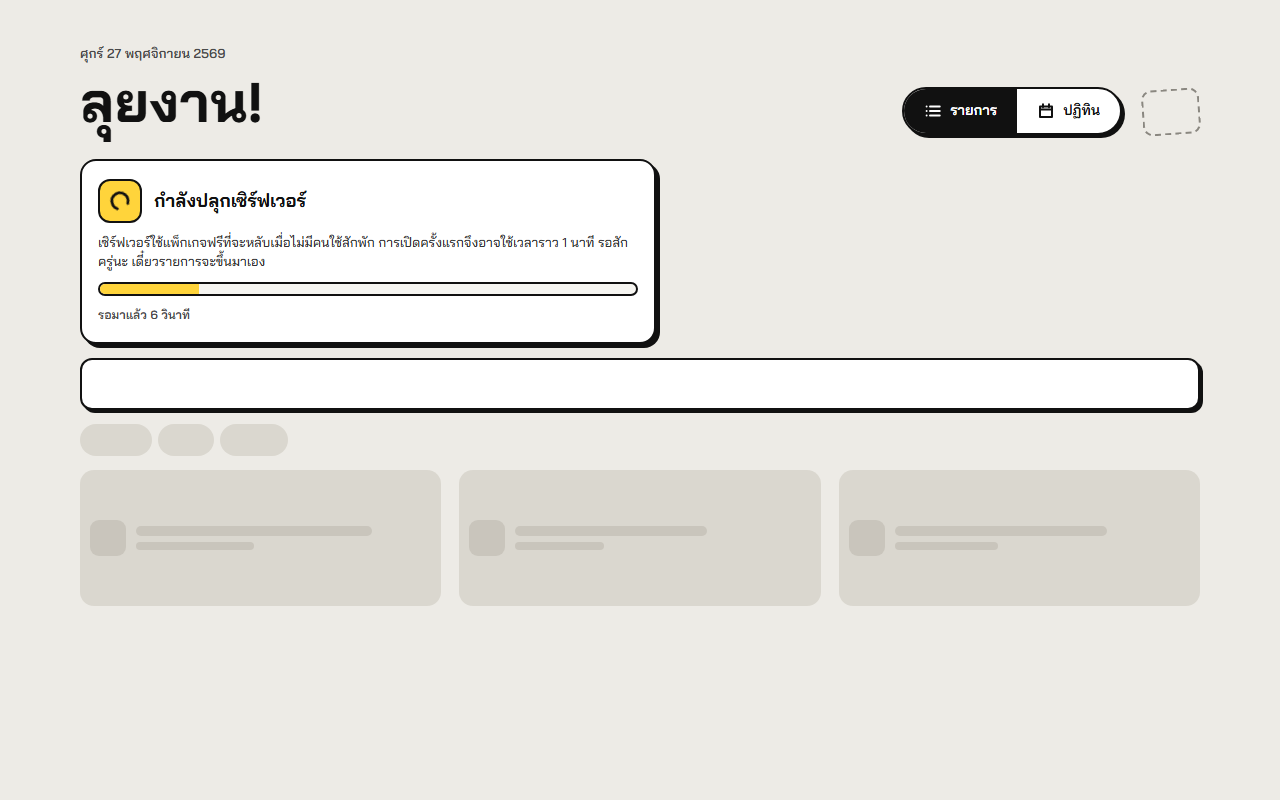
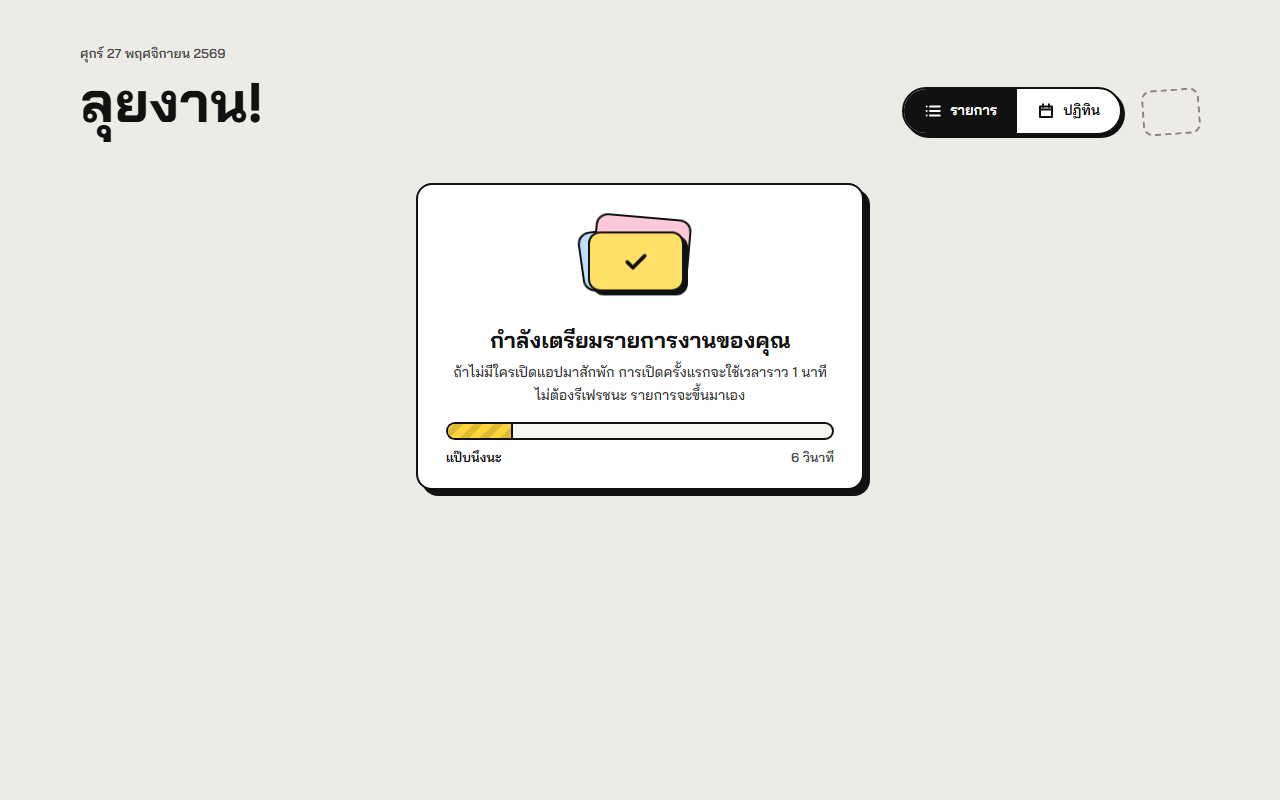
Reword the slow-load card in plain language and redesign it to match the Bold Cards style

Changed region(s): [[0.0625, 0.1875, 0.9375, 0.7188], [0.0625, 0.625, 0.3125, 0.7188]]

diff --git a/src/components/WakeCard.vue b/src/components/WakeCard.vue
@@ -1,0 +1,79 @@
+<script setup lang="ts">
+import { computed } from 'vue'
+import { useTodos } from '../composables/useTodos'
+import Icon from './Icon.vue'
+
+/*
+ * Shown instead of the skeleton when the first load is slow: the API host sleeps
+ * when idle and takes about a minute to wake. Plain words for people, no server talk.
+ */
+const { waitedSec } = useTodos()
+/** Eases towards 95% over about a minute, so the bar never claims to be done early. */
+const progress = computed(() => Math.round(95 * (1 - Math.exp(-waitedSec.value / 25))))
+const phrase = computed(() =>
+  waitedSec.value < 20 ? 'แป๊บนึงนะ' : waitedSec.value < 45 ? 'กำลังมา ใกล้แล้ว' : 'อีกนิดเดียวจริงๆ',
+)
+</script>
+
+<template>
+  <section
+    class="mx-auto mt-2 box-border flex w-full max-w-md flex-col items-center gap-4 rounded-2xl border-2 bg-white px-5 pt-7 pb-5 text-center shadow-brutal-lg sm:mt-6 sm:px-7"
+  >
+    <div aria-hidden="true" class="relative h-24 w-32">
+      <div class="absolute top-3.5 left-1 h-15 w-24 -rotate-8 rounded-xl border-2 bg-low motion-safe:animate-bob"></div>
+      <div
+        class="absolute top-1.5 left-4.5 h-15 w-24 rotate-5 rounded-xl border-2 bg-high motion-safe:animate-bob"
+        style="animation-delay: 0.2s"
+      ></div>
+      <div
+        class="absolute top-6 left-3 box-border flex h-15 w-24 items-center justify-center rounded-xl border-2 bg-normal shadow-brutal motion-safe:animate-bob"
+        style="animation-delay: 0.4s"
+      >
+        <Icon name="check" :size="30" :stroke="3" />
+      </div>
+    </div>
+
+    <div class="flex flex-col gap-1.5">
+      <h2 class="m-0 text-[20px] leading-snug font-bold sm:text-[22px]">กำลังเตรียมรายการงานของคุณ</h2>
+      <p class="m-0 text-[14px] leading-relaxed font-medium text-[#333]">
+        ถ้าไม่มีใครเปิดแอปมาสักพัก การเปิดครั้งแรกจะใช้เวลาราว 1 นาที ไม่ต้องรีเฟรชนะ รายการจะขึ้นมาเอง
+      </p>
+    </div>
+
+    <div class="flex w-full flex-col gap-2">
+      <div
+        class="h-4.5 w-full overflow-hidden rounded-full border-2 bg-off"
+        role="progressbar"
+        aria-label="ความคืบหน้าการโหลดรายการ"
+        :aria-valuenow="progress"
+        aria-valuemin="0"
+        aria-valuemax="100"
+      >
+        <div
+          class="stripes h-full border-r-2 bg-accent motion-safe:animate-stripes motion-safe:transition-[width] motion-safe:duration-1000"
+          :class="progress === 0 ? 'border-r-0' : ''"
+          :style="{ width: progress + '%' }"
+        ></div>
+      </div>
+      <div class="flex items-center justify-between text-[13px] font-semibold">
+        <span>{{ phrase }}</span>
+        <span class="text-muted" aria-hidden="true">{{ waitedSec }} วินาที</span>
+      </div>
+    </div>
+  </section>
+</template>
+
+<style scoped>
+.stripes {
+  background-image: linear-gradient(
+    -45deg,
+    rgb(0 0 0 / 0.13) 25%,
+    transparent 25%,
+    transparent 50%,
+    rgb(0 0 0 / 0.13) 50%,
+    rgb(0 0 0 / 0.13) 75%,
+    transparent 75%
+  );
+  background-size: 20px 20px;
+}
+</style>

diff --git a/src/components/ListSkeleton.vue b/src/components/ListSkeleton.vue
@@ -1,40 +1,15 @@
 <script setup lang="ts">
-import { computed } from 'vue'
 import { useTodos } from '../composables/useTodos'
-import Icon from './Icon.vue'
+import WakeCard from './WakeCard.vue'
 
 const { waitedSec } = useTodos()
-/** Eases towards 95% over about a minute, so the bar never claims to be done early. */
-const progress = computed(() => Math.round(95 * (1 - Math.exp(-waitedSec.value / 25))))
 </script>
 
 <template>
-  <div class="flex flex-col gap-3.5" aria-busy="true" role="status" aria-live="polite">
-    <section
-      v-if="waitedSec > 0"
-      class="box-border flex flex-col gap-2.5 rounded-2xl border-2 bg-white px-4 py-4.5 shadow-brutal sm:max-w-xl"
-    >
-      <div class="flex items-center gap-3">
-        <div class="flex size-11 shrink-0 items-center justify-center rounded-xl border-2 bg-accent">
-          <Icon name="spinner" :size="22" :stroke="3" />
-        </div>
-        <h2 class="m-0 text-[18px] leading-normal font-bold">กำลังปลุกเซิร์ฟเวอร์</h2>
-      </div>
-      <p class="m-0 text-[13px] leading-normal font-medium text-[#333]">
-        เซิร์ฟเวอร์ใช้แพ็กเกจฟรีที่จะหลับเมื่อไม่มีคนใช้สักพัก การเปิดครั้งแรกจึงอาจใช้เวลาราว 1 นาที รอสักครู่นะ เดี๋ยวรายการจะขึ้นมาเอง
-      </p>
-      <div
-        class="h-3.5 overflow-hidden rounded-full border-2 bg-off"
-        role="progressbar"
-        aria-label="ความคืบหน้าการปลุกเซิร์ฟเวอร์"
-        :aria-valuenow="progress"
-        aria-valuemin="0"
-        aria-valuemax="100"
-      >
-        <div class="h-full bg-accent motion-safe:transition-[width] motion-safe:duration-1000" :style="{ width: progress + '%' }"></div>
-      </div>
-      <p class="m-0 text-[12px] font-semibold text-muted" aria-hidden="true">รอมาแล้ว {{ waitedSec }} วินาที</p>
-    </section>
+  <div v-if="waitedSec > 0" aria-busy="true" role="status" aria-live="polite">
+    <WakeCard />
+  </div>
+  <div v-else class="flex flex-col gap-3.5" aria-busy="true" role="status" aria-live="polite">
     <div class="box-border h-13 rounded-xl border-2 bg-white shadow-brutal-sm"></div>
     <div class="flex gap-1.5">
       <div class="h-8 w-18 rounded-full bg-line"></div>
@@ -54,6 +29,6 @@ const progress = computed(() => Math.round(95 * (1 - Math.exp(-waitedSec.value /
         </div>
       </div>
     </div>
-    <p v-if="waitedSec === 0" class="m-0 mt-1 text-center text-[12px] font-semibold text-muted">กำลังดึงรายการ...</p>
+    <p class="m-0 mt-1 text-center text-[12px] font-semibold text-muted">กำลังดึงรายการ...</p>
   </div>
 </template>

diff --git a/src/style.css b/src/style.css
@@ -26,6 +26,24 @@
   --shadow-brutal-accent-lg: 5px 5px 0 #ffd43b;
   --shadow-brutal-accent-4: 4px 4px 0 #ffd43b;
   --shadow-brutal-danger: 4px 4px 0 #c92a2a;
+
+  --animate-bob: bob 1.6s ease-in-out infinite;
+  --animate-stripes: stripes 0.8s linear infinite;
+
+  @keyframes bob {
+    0%,
+    100% {
+      translate: 0 0;
+    }
+    50% {
+      translate: 0 -7px;
+    }
+  }
+  @keyframes stripes {
+    to {
+      background-position: 20px 0;
+    }
+  }
 }
 
 @layer base {

diff --git a/README.md b/README.md
@@ -12,7 +12,7 @@
 
 มุมมองปฏิทินเป็นรายเดือนบนจอใหญ่ และเป็นแถบสัปดาห์บนมือถือ เลือกวันแล้วดูงานของวันนั้นและเพิ่มงานลงวันนั้นได้ทันที
 
-ทุกการกระทำอัปเดตหน้าจอก่อน (optimistic) แล้วย้อนกลับพร้อมแถบแจ้งเตือนสีแดงถ้าส่งไม่สำเร็จ ไอคอนหมุนจะขึ้นในปุ่มติ๊กเมื่อรอเกิน 300 มิลลิวินาที ตอนโหลดมี skeleton ถ้ารอเกิน 3 วินาทีจะขึ้นการ์ดบอกว่ากำลังปลุกเซิร์ฟเวอร์ พร้อมแถบความคืบหน้าและจำนวนวินาทีที่รอ และจะลองเรียกใหม่เองจนเซิร์ฟเวอร์ตื่น (สูงสุด 2 นาที) เพราะ API อยู่บนแพ็กเกจฟรีที่หลับเมื่อไม่มีคนใช้ ถ้าโหลดไม่ได้จริงจะมีการ์ดพร้อมปุ่มลองใหม่ วันที่แสดงเป็นปีพุทธศักราชด้วย `Intl.DateTimeFormat('th-TH')` ส่วนการใช้งานด้วยคีย์บอร์ดรองรับทั้งหน้ารายการ ตัวเลือก หน้ารายละเอียด และปฏิทิน ปุ่มและจุดกดทุกจุดมีขนาดอย่างน้อย 44 พิกเซล
+ทุกการกระทำอัปเดตหน้าจอก่อน (optimistic) แล้วย้อนกลับพร้อมแถบแจ้งเตือนสีแดงถ้าส่งไม่สำเร็จ ไอคอนหมุนจะขึ้นในปุ่มติ๊กเมื่อรอเกิน 300 มิลลิวินาที ตอนโหลดมี skeleton ถ้ารอเกิน 3 วินาทีจะเปลี่ยนเป็นการ์ด "กำลังเตรียมรายการงานของคุณ" ที่บอกด้วยภาษาธรรมดาว่าอาจรอราว 1 นาที พร้อมการ์ดสามใบที่ขยับเบาๆ แถบความคืบหน้า และจำนวนวินาทีที่รอ และจะลองเรียกใหม่เองจนเซิร์ฟเวอร์ตื่น (สูงสุด 2 นาที) เพราะ API อยู่บนแพ็กเกจฟรีที่หลับเมื่อไม่มีคนใช้ ถ้าโหลดไม่ได้จริงจะมีการ์ดพร้อมปุ่มลองใหม่ วันที่แสดงเป็นปีพุทธศักราชด้วย `Intl.DateTimeFormat('th-TH')` ส่วนการใช้งานด้วยคีย์บอร์ดรองรับทั้งหน้ารายการ ตัวเลือก หน้ารายละเอียด และปฏิทิน ปุ่มและจุดกดทุกจุดมีขนาดอย่างน้อย 44 พิกเซล
 
 ## Tech Stack
 
@@ -124,4 +124,6 @@ src/
 
 ตอนเซิร์ฟเวอร์กำลังตื่น (จำลองด้วยสคริปต์ `tools/shot/wake.mjs`)
 
-![กำลังปลุกเซิร์ฟเวอร์](docs/screenshots/09-03-waking-server-desktop.png)
+![ตอนรอบนจอใหญ่](docs/screenshots/09-03-waking-server-desktop.png)
+
+![ตอนรอบนมือถือ](docs/screenshots/09-04-waking-server-mobile.png)
